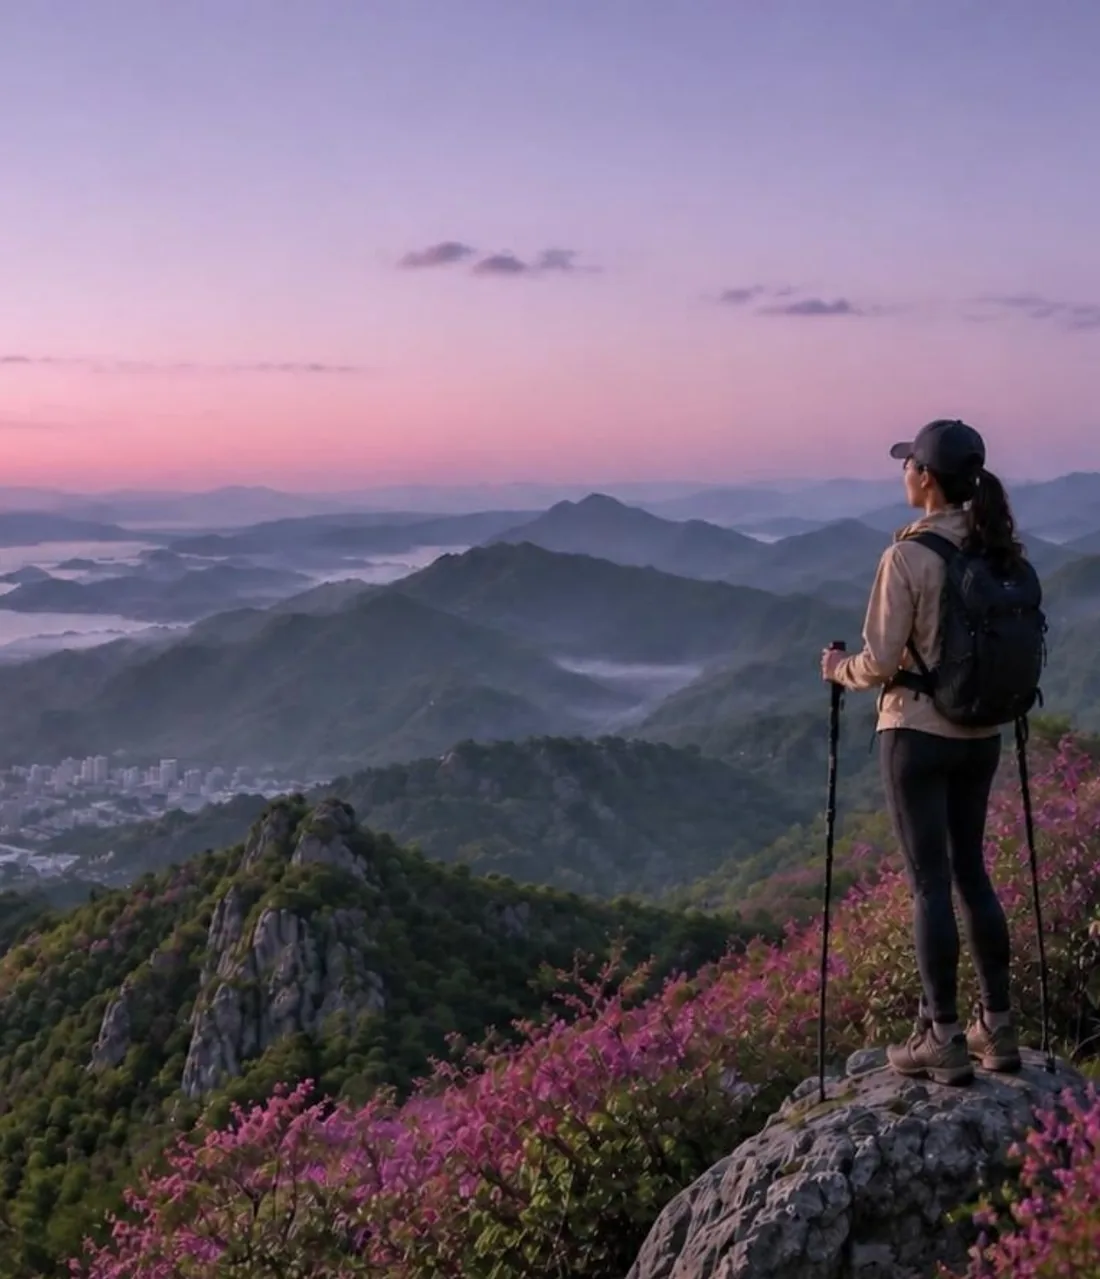
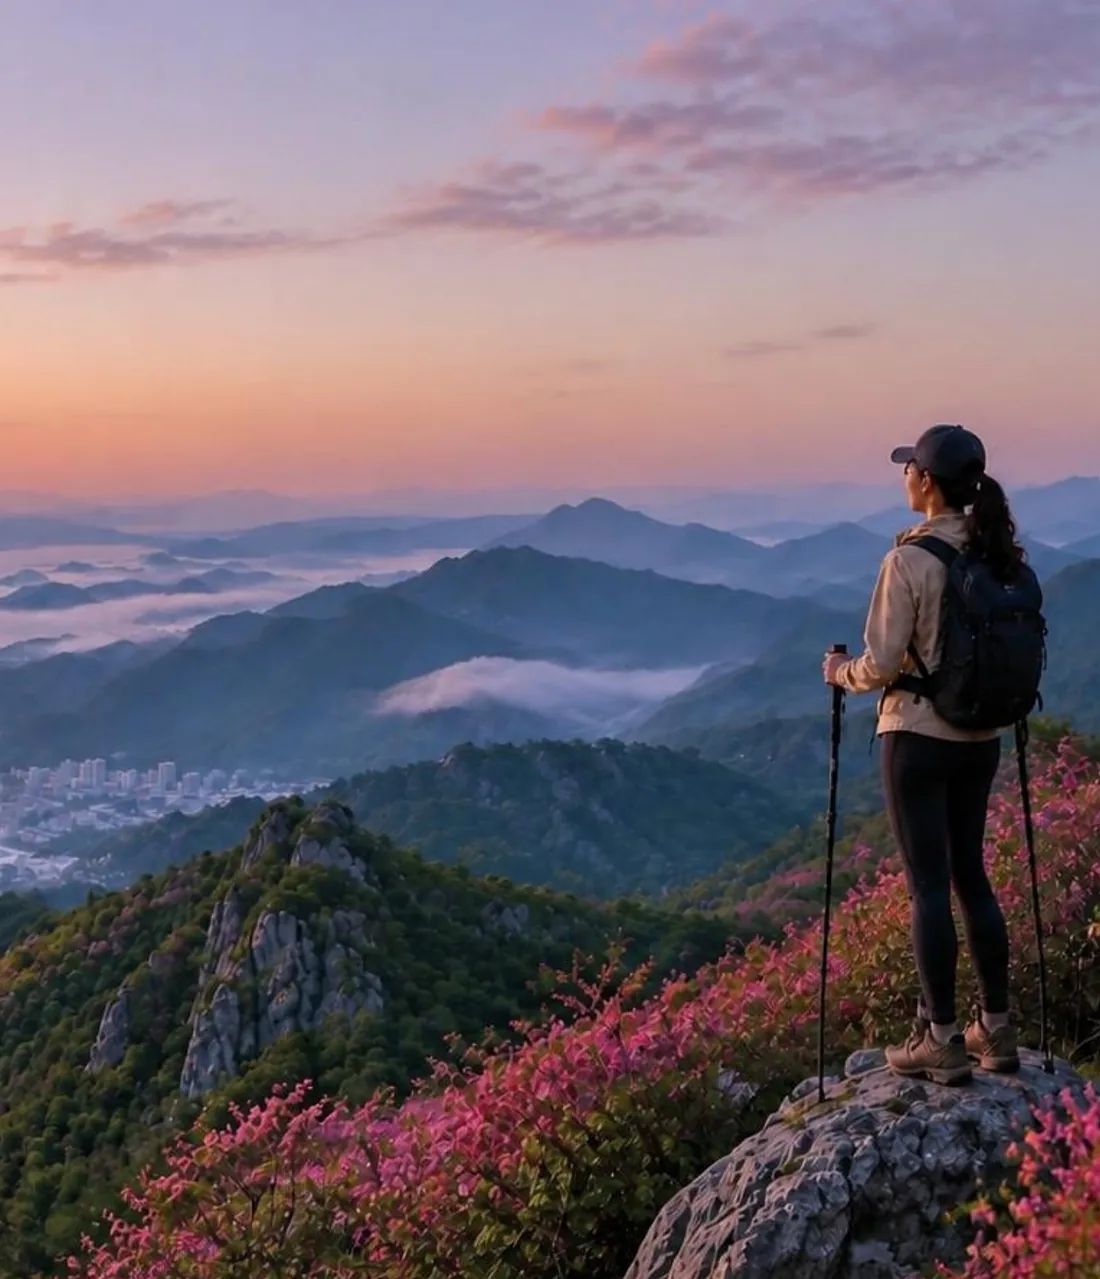
히어로 봄 새벽 v6d 적용 (픽셀 검수 통과) (#30)
- Canva 재생성본 v6d: 다리 2개·폴 2개·발목/부츠 윤곽 단일, 배경(바다·도시·산·하늘) 결함 없음
- READY에 spring-dawn만 노출, 나머지 조합은 원본 히어로 유지

Claude-Session: https://claude.ai/code/session_01TTPn3ts8fEyWREDupZmwxM

diff --git a/_src.html b/_src.html
@@ -13,7 +13,7 @@
 (function(){var k="";try{var d=new Date(),M=d.getMonth()+1,h=d.getHours();
 var s=M>=3&&M<=5?"spring":M>=6&&M<=8?"summer":M>=9&&M<=11?"autumn":"winter";
 var t=h>=4&&h<7?"dawn":h>=7&&h<17?"day":h>=17&&h<21?"evening":"night";k=s+"-"+t;
-var READY={};/* 검수 재진행 중: 전 조합 원본 히어로 표시 *//* 검수 통과분만 노출, 나머지는 원본 히어로 */
+var READY={"spring-dawn":1};/* 검수 통과분만 노출, 나머지는 원본 히어로 */
 window.__heroReady=READY;if(!READY[k])k="";
 var q=/[?&]hero=((?:spring|summer|autumn|winter)-(?:dawn|day|evening|night))(?:&|$)/.exec(location.search);if(q&&READY[q[1]])k=q[1];}catch(e){k="";}
 window.__hero=k;var a=k?"/img/hero/"+k:"/img/hero",b=k?"/img/hero/"+k+"-m.webp":"/img/hero-m.webp";
@@ -333,7 +333,7 @@ footer{background:var(--dark);color:rgba(255,255,255,.5);border-top:1px solid rg
       <img class="bg" id="heroImg" width="2560" height="1280" alt="산 정상 바위에 서서 다도해와 겹겹의 산줄기를 바라보는 등산객" fetchpriority="high" />
     </picture>
     <script>(function(){var k=window.__hero,i=document.getElementById("heroImg"),s=document.getElementById("heroSrc"),w=document.getElementById("bgwrap");
-var C={"spring-dawn":["#ac97b4","#4c4448"],"spring-day":["#b2d5ee","#7e8071"],"spring-evening":["#d7a16f","#704d2b"],"spring-night":["#11253b","#0e1217"],"summer-dawn":["#dcbba1","#5f5642"],"summer-day":["#75abe1","#3a5f55"],"summer-evening":["#c78665","#594429"],"summer-night":["#0f2951","#0c1826"],"autumn-dawn":["#9482ba","#5c4159"],"autumn-day":["#81b5db","#6b5e5b"],"autumn-evening":["#c69164","#693821"],"autumn-night":["#1b293a","#17151a"],"winter-dawn":["#a8acce","#475986"],"winter-day":["#afcfee","#77879c"],"winter-evening":["#8d7575","#4e3f4f"],"winter-night":["#182742","#1c273d"]};function fb(){s.srcset="/img/hero-m.webp";i.src="/img/hero.webp";w.style.backgroundImage="";}
+var C={"spring-dawn":["#b59ba3","#4f474c"],"spring-day":["#b2d5ee","#7e8071"],"spring-evening":["#d7a16f","#704d2b"],"spring-night":["#11253b","#0e1217"],"summer-dawn":["#dcbba1","#5f5642"],"summer-day":["#75abe1","#3a5f55"],"summer-evening":["#c78665","#594429"],"summer-night":["#0f2951","#0c1826"],"autumn-dawn":["#9482ba","#5c4159"],"autumn-day":["#81b5db","#6b5e5b"],"autumn-evening":["#c69164","#693821"],"autumn-night":["#1b293a","#17151a"],"winter-dawn":["#a8acce","#475986"],"winter-day":["#afcfee","#77879c"],"winter-evening":["#8d7575","#4e3f4f"],"winter-night":["#182742","#1c273d"]};function fb(){s.srcset="/img/hero-m.webp";i.src="/img/hero.webp";w.style.backgroundImage="";}
 if(!k){fb();return;}i.addEventListener("error",function(){if(!i.getAttribute("data-fb")){i.setAttribute("data-fb","1");fb();}});
 if(C[k])w.style.backgroundImage="linear-gradient(180deg,"+C[k][0]+","+C[k][1]+")";
 s.srcset="/img/hero/"+k+"-m.webp";i.src="/img/hero/"+k+".webp";})();</script>

diff --git a/index.html b/index.html
@@ -13,7 +13,7 @@
 (function(){var k="";try{var d=new Date(),M=d.getMonth()+1,h=d.getHours();
 var s=M>=3&&M<=5?"spring":M>=6&&M<=8?"summer":M>=9&&M<=11?"autumn":"winter";
 var t=h>=4&&h<7?"dawn":h>=7&&h<17?"day":h>=17&&h<21?"evening":"night";k=s+"-"+t;
-var READY={};/* 검수 재진행 중: 전 조합 원본 히어로 표시 *//* 검수 통과분만 노출, 나머지는 원본 히어로 */
+var READY={"spring-dawn":1};/* 검수 통과분만 노출, 나머지는 원본 히어로 */
 window.__heroReady=READY;if(!READY[k])k="";
 var q=/[?&]hero=((?:spring|summer|autumn|winter)-(?:dawn|day|evening|night))(?:&|$)/.exec(location.search);if(q&&READY[q[1]])k=q[1];}catch(e){k="";}
 window.__hero=k;var a=k?"/img/hero/"+k:"/img/hero",b=k?"/img/hero/"+k+"-m.webp":"/img/hero-m.webp";
@@ -333,7 +333,7 @@ footer{background:var(--dark);color:rgba(255,255,255,.5);border-top:1px solid rg
       <img class="bg" id="heroImg" width="2560" height="1280" alt="산 정상 바위에 서서 다도해와 겹겹의 산줄기를 바라보는 등산객" fetchpriority="high" />
     </picture>
     <script>(function(){var k=window.__hero,i=document.getElementById("heroImg"),s=document.getElementById("heroSrc"),w=document.getElementById("bgwrap");
-var C={"spring-dawn":["#ac97b4","#4c4448"],"spring-day":["#b2d5ee","#7e8071"],"spring-evening":["#d7a16f","#704d2b"],"spring-night":["#11253b","#0e1217"],"summer-dawn":["#dcbba1","#5f5642"],"summer-day":["#75abe1","#3a5f55"],"summer-evening":["#c78665","#594429"],"summer-night":["#0f2951","#0c1826"],"autumn-dawn":["#9482ba","#5c4159"],"autumn-day":["#81b5db","#6b5e5b"],"autumn-evening":["#c69164","#693821"],"autumn-night":["#1b293a","#17151a"],"winter-dawn":["#a8acce","#475986"],"winter-day":["#afcfee","#77879c"],"winter-evening":["#8d7575","#4e3f4f"],"winter-night":["#182742","#1c273d"]};function fb(){s.srcset="/img/hero-m.webp";i.src="/img/hero.webp";w.style.backgroundImage="";}
+var C={"spring-dawn":["#b59ba3","#4f474c"],"spring-day":["#b2d5ee","#7e8071"],"spring-evening":["#d7a16f","#704d2b"],"spring-night":["#11253b","#0e1217"],"summer-dawn":["#dcbba1","#5f5642"],"summer-day":["#75abe1","#3a5f55"],"summer-evening":["#c78665","#594429"],"summer-night":["#0f2951","#0c1826"],"autumn-dawn":["#9482ba","#5c4159"],"autumn-day":["#81b5db","#6b5e5b"],"autumn-evening":["#c69164","#693821"],"autumn-night":["#1b293a","#17151a"],"winter-dawn":["#a8acce","#475986"],"winter-day":["#afcfee","#77879c"],"winter-evening":["#8d7575","#4e3f4f"],"winter-night":["#182742","#1c273d"]};function fb(){s.srcset="/img/hero-m.webp";i.src="/img/hero.webp";w.style.backgroundImage="";}
 if(!k){fb();return;}i.addEventListener("error",function(){if(!i.getAttribute("data-fb")){i.setAttribute("data-fb","1");fb();}});
 if(C[k])w.style.backgroundImage="linear-gradient(180deg,"+C[k][0]+","+C[k][1]+")";
 s.srcset="/img/hero/"+k+"-m.webp";i.src="/img/hero/"+k+".webp";})();</script>
